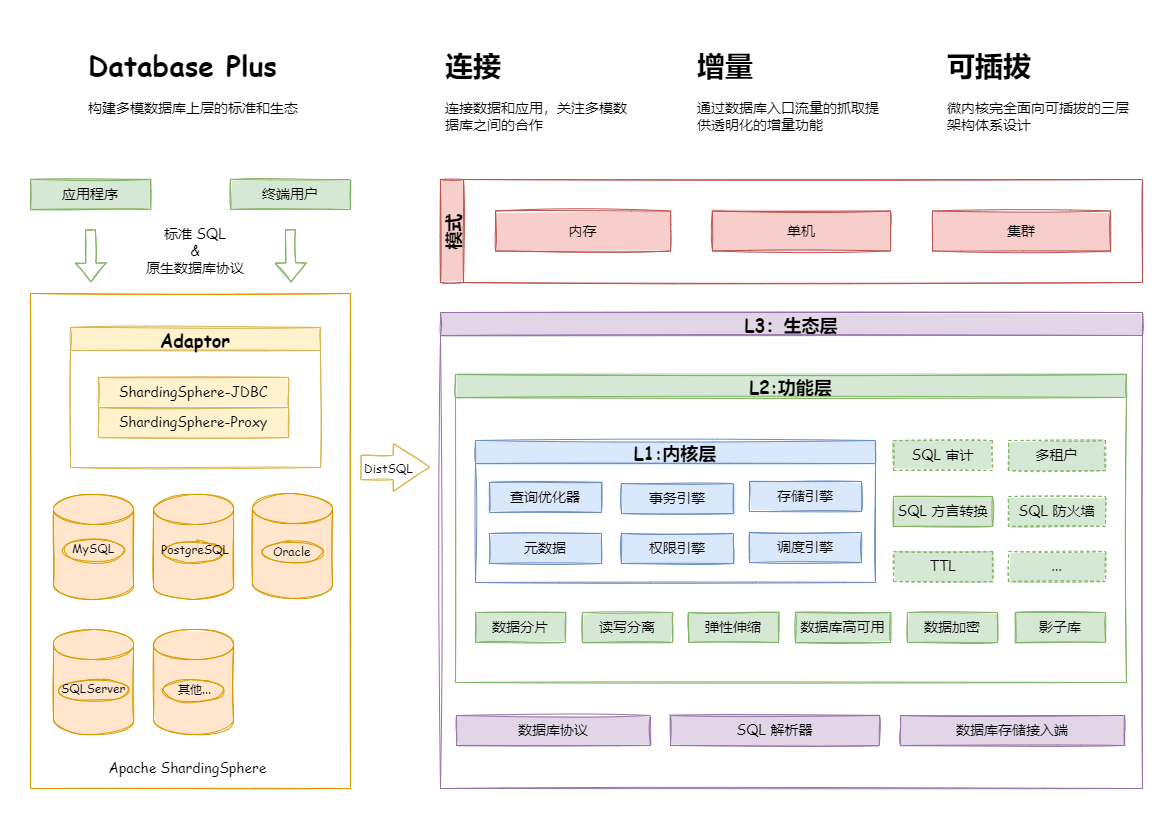
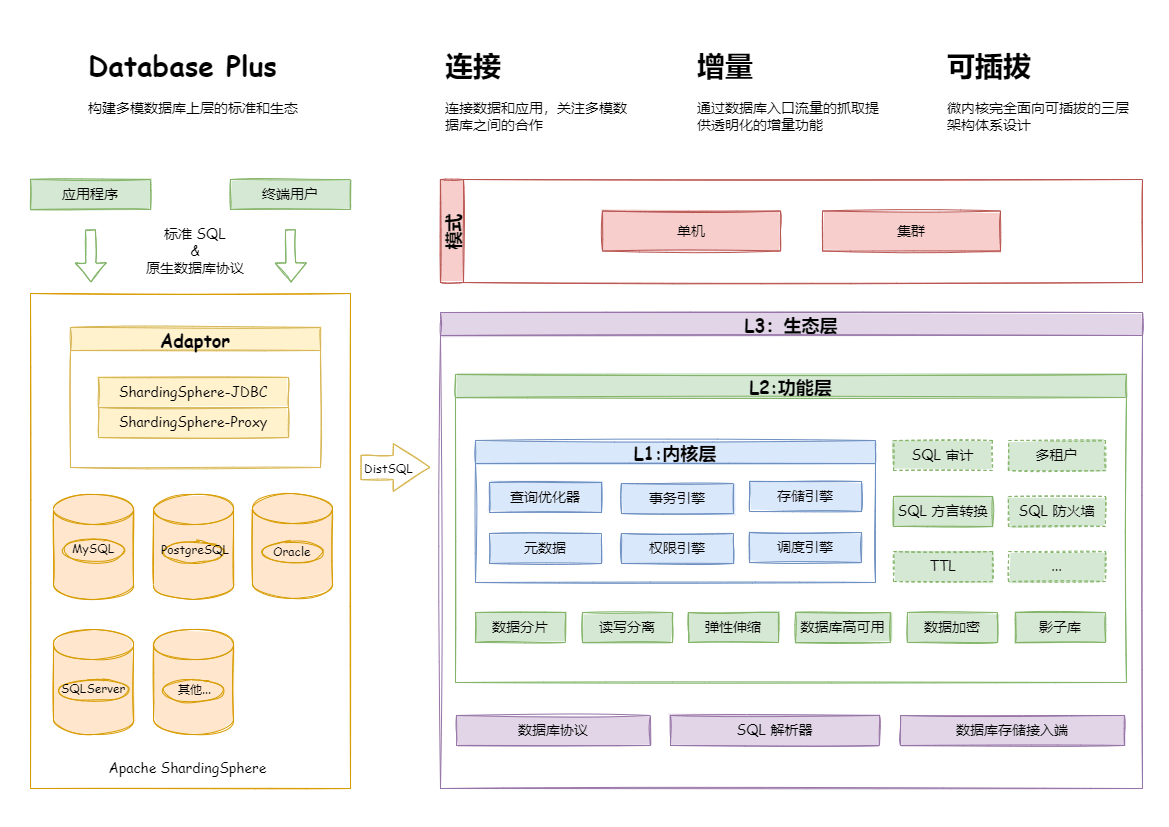
delete memory mode (#19908)

Changed region(s): [[0.6467, 0.2418, 0.9547, 0.3325], [0.4003, 0.2418, 0.6159, 0.3325]]

diff --git a/docs/document/content/overview/mode.en.md b/docs/document/content/overview/mode.en.md
@@ -5,17 +5,13 @@ weight = 5
 chapter = true
 +++
 
-Apache ShardingSphere is a complete set of products applicable to a wide range of usage scenarios. In addition to the cluster deployment of the production environment, it also provides corresponding operation modes for engineers in the development process and automated testing scenarios. Apache ShardingSphere provides three operation modes: memory mode, standalone mode, and cluster mode.
+Apache ShardingSphere is a complete set of products applicable to a wide range of usage scenarios. In addition to the cluster deployment of the production environment, it also provides corresponding operation modes for engineers in the development process and automated testing scenarios. Apache ShardingSphere provides two operation modes: standalone mode and cluster mode.
 
-### Memory mode
-
-Initial configuration or metadata changes caused by SQL execution take effect only in the current process. Suitable for environment setup of integration testing, it makes it easy for developers to integrate Apache ShardingSphere in integrated functional testing without cleaning the running traces. This is the default mode of Apache ShardingSphere.
-
-### Standalone mode
+## Standalone mode
 
 It can achieve data persistence in terms of metadata information such as data sources and rules, but it is not able to synchronize metadata to multiple Apache ShardingSphere instances or be aware of each other in a cluster environment. Updating metadata through one instance causes inconsistencies in other instances because they cannot get the latest metadata. It is ideal for engineers to build a ShardingSphere environment locally.
 
-### Cluster mode
+## Cluster mode
 
 It provides metadata sharing between multiple Apache ShardingSphere instances and the capability to coordinate states in distributed scenarios. In an actual production environment for deployment and release, you must use the cluster mode. 
 

diff --git a/docs/document/content/overview/mode.cn.md b/docs/document/content/overview/mode.cn.md
@@ -5,16 +5,12 @@ weight = 5
 chapter = true
 +++
 
-Apache ShardingSphere 是一套完善的产品，使用场景非常广泛。 除生产环境的集群部署之外，还为工程师在开发和自动化测试等场景提供相应的运行模式。 Apache ShardingSphere 提供的 3 种运行模式分别是内存模式、单机模式和集群模式。
+Apache ShardingSphere 是一套完善的产品，使用场景非常广泛。 除生产环境的集群部署之外，还为工程师在开发和自动化测试等场景提供相应的运行模式。 Apache ShardingSphere 提供的 2 种运行模式分别是单机模式和集群模式。
 
-### 内存模式
-
-初始化配置或执行 SQL 等造成的元数据结果变更的操作，仅在当前进程中生效。 适用于集成测试的环境启动，方便开发人员在整合功能测试中集成 Apache ShardingSphere 而无需清理运行痕迹。
-
-### 单机模式
+## 单机模式
 
 能够将数据源和规则等元数据信息持久化，但无法将元数据同步至多个 Apache ShardingSphere 实例，无法在集群环境中相互感知。 通过某一实例更新元数据之后，会导致其他实例由于获取不到最新的元数据而产生不一致的错误。 适用于工程师在本地搭建 Apache ShardingSphere 环境。
 
-### 集群模式
+## 集群模式
 
 提供了多个 Apache ShardingSphere 实例之间的元数据共享和分布式场景下状态协调的能力。 在真实部署上线的生产环境，必须使用集群模式。它能够提供计算能力水平扩展和高可用等分布式系统必备的能力。 集群环境需要通过独立部署的注册中心来存储元数据和协调节点状态。
